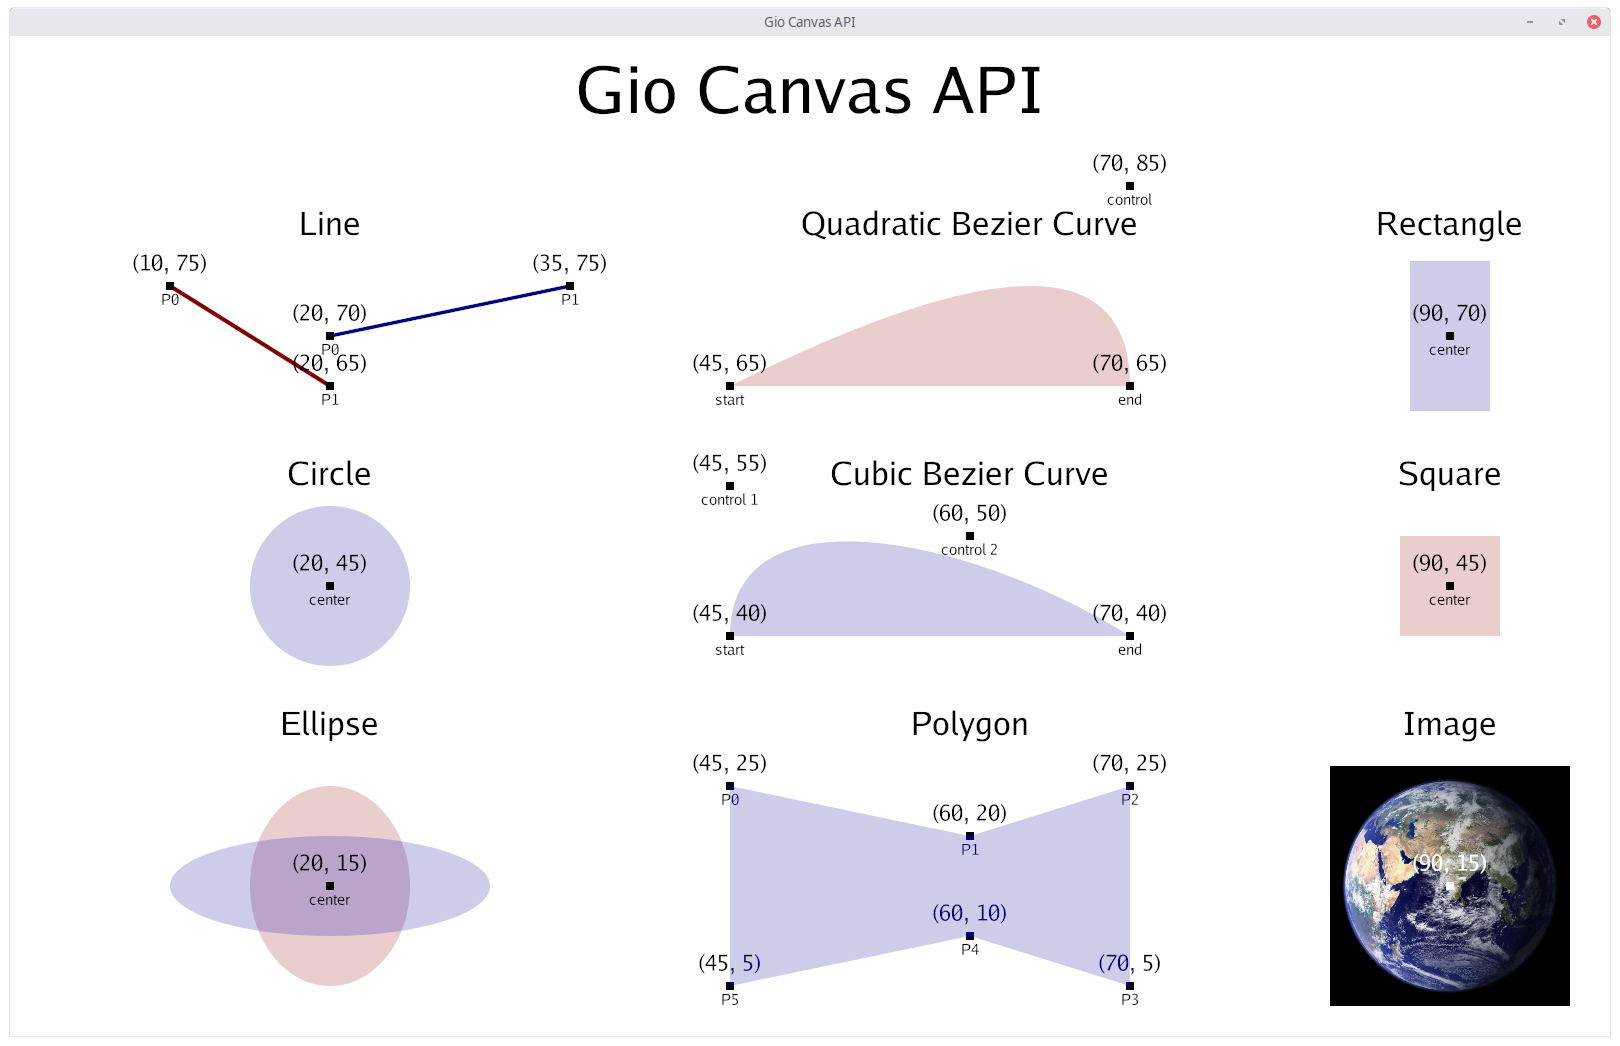
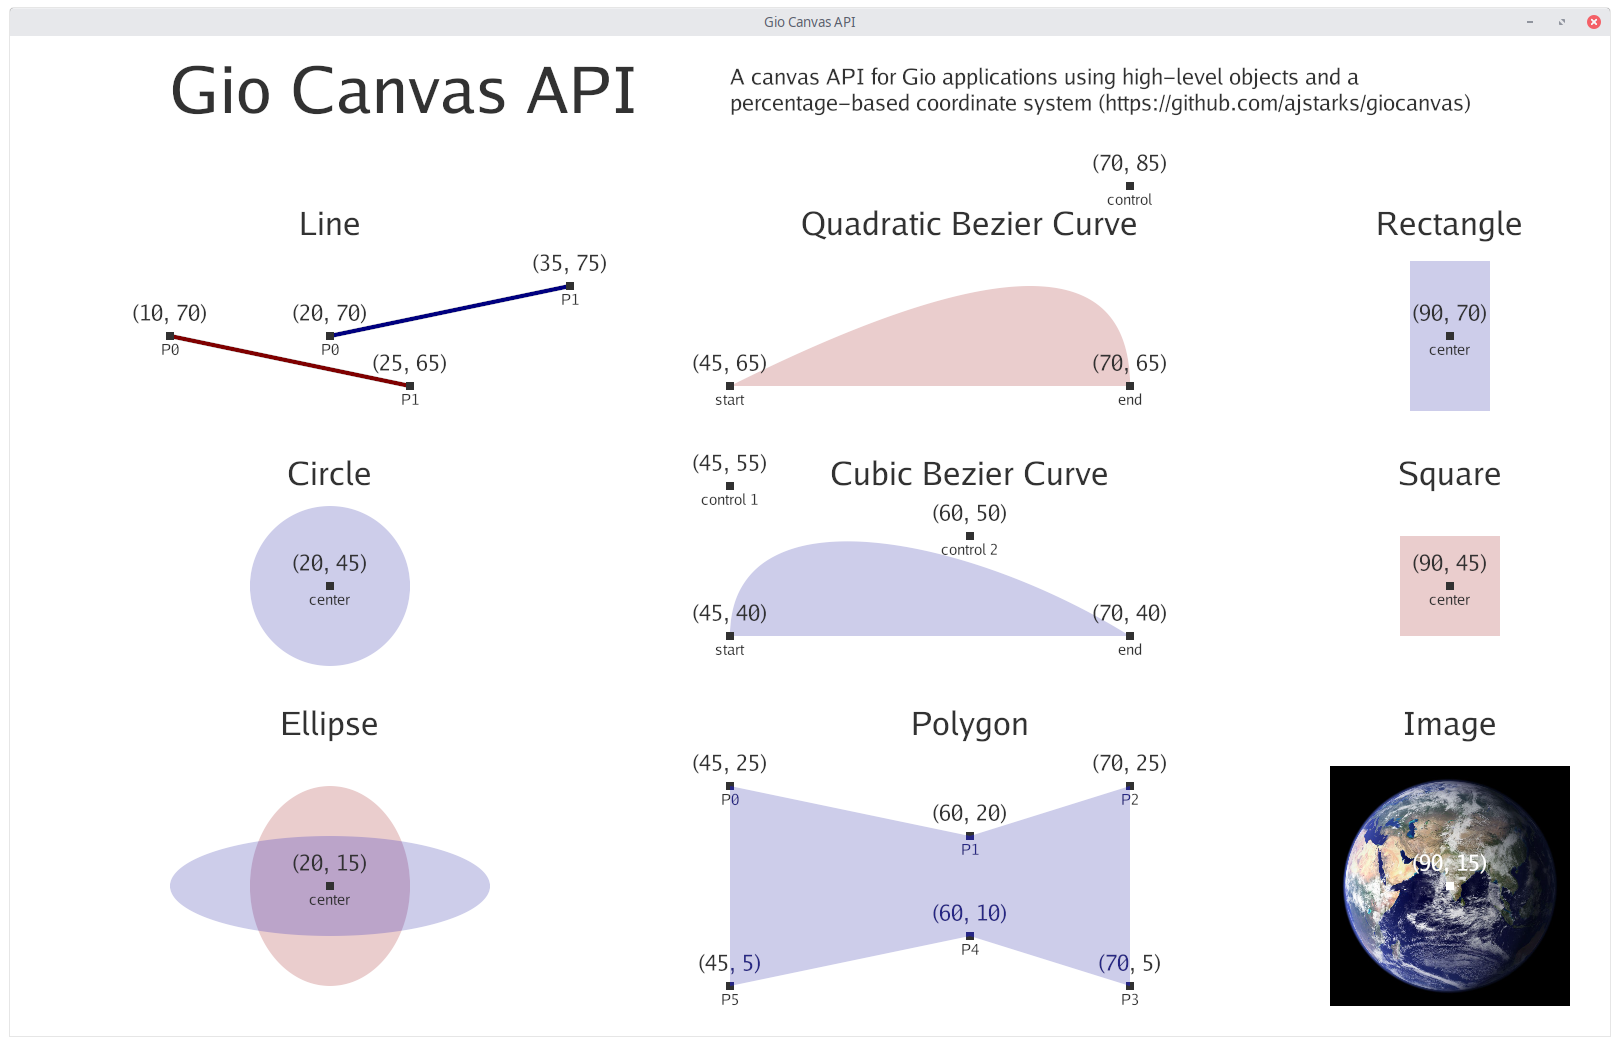
add subtitle to play, update illustrations, remove commented code

diff --git a/giocanvas.go b/giocanvas.go
@@ -293,7 +293,7 @@ func (c *Canvas) textops(x, y, size float32, alignment text.Alignment, s string,
 	l.Layout(c.Context)
 }
 
-// AbsTextWrap places and wraps text
+// AbsTextWrap places and wraps text at (x, y), wrapped at width
 func (c *Canvas) AbsTextWrap(x, y, size, width float32, s string, fillcolor color.RGBA) {
 	defer op.Push(c.Context.Ops).Pop()
 	op.TransformOp{}.Offset(f32.Point{X: x, Y: y - size}).Add(c.Context.Ops) // shift to use baseline
@@ -649,11 +649,7 @@ func (l lv) Stroke(c color.RGBA, width float32, gtx *layout.Context) (box f32.Re
 		} else if i == len(l)-1 {
 			prevPoint := l[i-1]
 			tilt = angle(prevPoint, point) + rad315
-		} /*else {
-			prevPoint := l[i-1]
-			nextPoint := l[i+1]
-			tilt = bezel(point, prevPoint, nextPoint)
-		}*/
+		}
 		angles = append(angles, tilt)
 		originalPoints = append(originalPoints, point)
 		point = offsetPoint(point, distance, tilt)
@@ -675,12 +671,7 @@ func (l lv) Stroke(c color.RGBA, width float32, gtx *layout.Context) (box f32.Re
 		} else if i == len(l)-1 {
 			prevPoint := l[i-1]
 			tilt = angle(prevPoint, point) + rad45
-		} /*else {
-			point := l[i]
-			prevPoint := l[i-1]
-			nextPoint := l[i+1]
-			tilt = bezel(point, nextPoint, prevPoint)
-		}*/
+		}
 		angles = append(angles, tilt)
 		originalPoints = append(originalPoints, point)
 		point = offsetPoint(point, distance, tilt)
@@ -741,22 +732,6 @@ func atan2(y, x float32) float32 {
 	return float32(math.Atan2(float64(y), float64(x)))
 }
 
-/*
-func bezel(p, q, r f32.Point) float32 {
-	angle := atan2(q.Y-p.Y, q.X-p.X) - atan2(r.Y-p.Y, r.X-p.X)
-	if angle < -rad180 || angle > rad180 { // concave
-
-	} else { // convex
-
-	}
-	if angle < 0 {
-		angle = angle
-	} else {
-		angle = angle
-	}
-	return angle
-}
-*/
 func f32Min(x, y float32) float32 {
 	return float32(math.Min(float64(x), float64(y)))
 }

diff --git a/play/main.go b/play/main.go
@@ -26,6 +26,8 @@ func play(appname string, w, h int, showgrid bool) {
 	var colx float32
 	var lw float32 = 0.2
 
+	subtitle := "A canvas API for Gio applications using high-level objects and a percentage-based coordinate system (https://github.com/ajstarks/giocanvas)"
+
 	win := app.NewWindow(title, size)
 	for e := range win.Events() {
 		if e, ok := e.(system.FrameEvent); ok {
@@ -33,7 +35,10 @@ func play(appname string, w, h int, showgrid bool) {
 
 			// Title
 			canvas.Background(bgcolor)
-			canvas.TextMid(50, 92, titlesize, appname, labelcolor)
+
+			colx = 10
+			canvas.Text(colx, 92, titlesize, appname, labelcolor)
+			canvas.TextWrap(colx+35, 95, subsize, 50, subtitle, labelcolor)
 
 			colx = 20
 			// Lines
